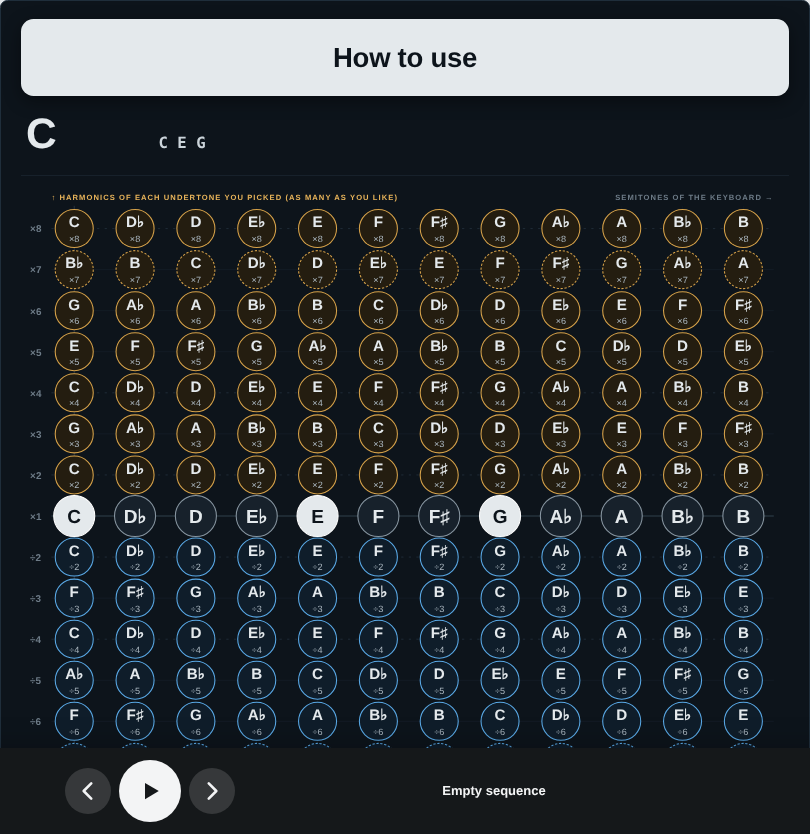
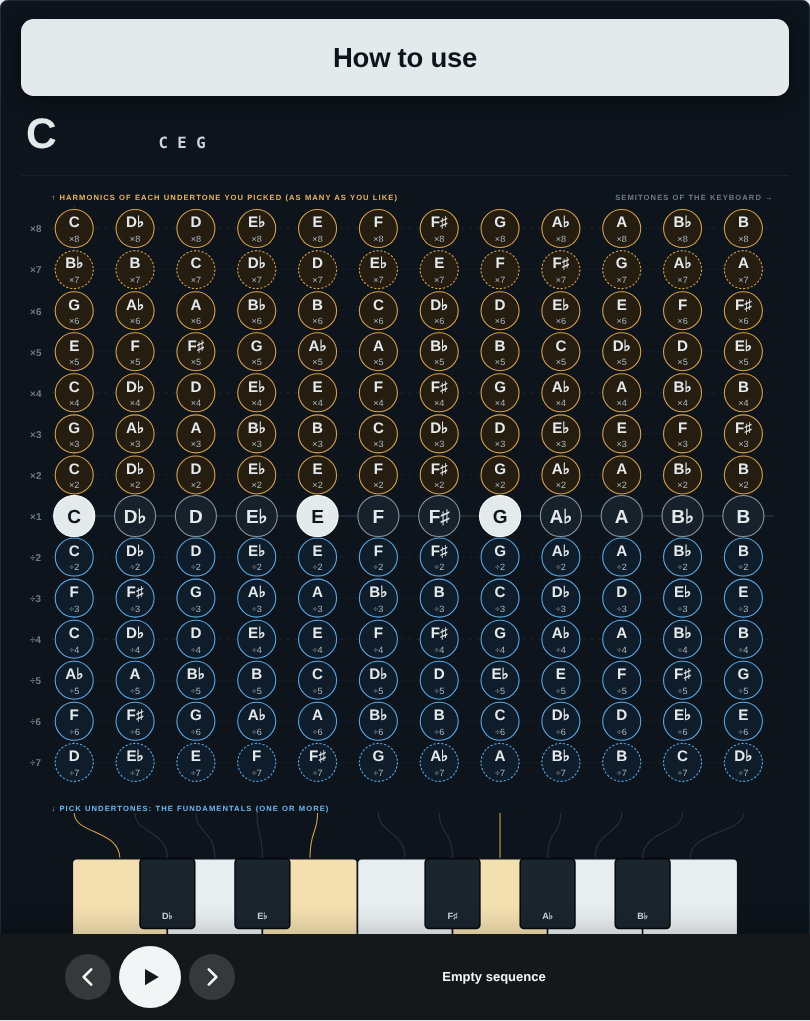
Harmonic Keyboard Tuner: keyboard under the grid, each key plays its column
Claude-Session: https://claude.ai/code/session_01Mq2GKQqtKS2SjuN1U1snRm

Changed region(s): [[0.0, 0.0, 1.0, 1.0]]

diff --git a/harmonic-keyboard-tuner.html b/harmonic-keyboard-tuner.html
@@ -93,6 +93,12 @@ footer a { text-decoration: none; } footer a:hover { color: var(--fg); }
 .cap { font: 700 10px var(--sans); letter-spacing: .14em; text-transform: uppercase; }
 .grow { stroke: #151f29; stroke-width: 1; } .grow.oct { stroke: #25323f; stroke-dasharray: 3 7; } .grow.mid { stroke: #31404d; stroke-width: 1.4; }
 .gcol { stroke: #111a22; stroke-width: 1; } .gcol.focus { stroke: #2f3d49; }
+#pk { display: block; width: 100%; height: auto; touch-action: none; user-select: none; -webkit-user-select: none; margin-top: -4px; }
+#pk .link { fill: none; stroke: #26343f; stroke-width: 1.4; } #pk .link.has { stroke: #d6a24a; } #pk .link.on { stroke: #5fc4ee; stroke-width: 2.2; }
+#pk .wk { fill: #e8edf0; stroke: #0d141b; stroke-width: 2; cursor: pointer; } #pk .bk { fill: #1b252e; stroke: #05090d; stroke-width: 2; cursor: pointer; }
+#pk .wk.has { fill: #f3dfb0; } #pk .bk.has { fill: #6b5a2c; } #pk .on.wk { fill: #7fd0f2; } #pk .on.bk { fill: #2a86b0; }
+#pk text { font: 700 14px Arial, sans-serif; pointer-events: none; } #pk .wl { fill: #3b4650; text-anchor: middle; } #pk .bl { fill: #cdd6dc; text-anchor: middle; font-size: 12px; }
+.pkcap { margin: 6px 0 0; text-align: center; font: 600 12px/1.4 Arial, sans-serif; color: #7d8b97; }
 .rowlbl { fill: #6d7b87; font: 700 13px Arial, sans-serif; }
 .node { cursor: pointer; }
 .node circle { fill: #17212b; stroke: #8795a0; stroke-width: 1.4; }
@@ -213,6 +219,8 @@ body.tutoring #howBtn { display: none; }
         <div id="readout" title="Drag the chord into a bar"><div id="chName" class="empty">Pick a note</div><div id="chSub"></div></div>
         <div id="circRow" hidden style="display:none"><span class="eng">Page</span><div class="dseg" id="circSeg"><button type="button" data-v="0">Fifths</button><button type="button" data-v="1">Relative minors</button></div><span class="eng" id="midiTag"></span></div>
         <svg id="kb" class="grid" viewBox="0 0 1010 830" role="application" aria-label="Harmonic keyboard: a column for each key of the keyboard. Pick an undertone below the middle, then any harmonics of it in the middle row or above."></svg>
+        <svg id="pk" viewBox="0 0 1010 215" role="group" aria-label="One octave of the keyboard. Each key plays the notes picked in the column above it."></svg>
+        <p class="pkcap">Each key plays the notes you picked in its column. A key with nothing picked plays its own note.</p>
       </div>
       <div class="sp" id="seqpanel" style="margin-top:14px">
         <div class="circwrap"><button id="seqCircle" class="circ" type="button" aria-pressed="false" aria-label="Play" title="Play / stop (Space)"><svg class="i-play" viewBox="0 0 24 24" aria-hidden="true"><path d="M8 5.5v13l11-6.5z" fill="currentColor"/></svg><svg class="i-stop" viewBox="0 0 24 24" aria-hidden="true"><rect x="7" y="7" width="10" height="10" rx="1.5" fill="currentColor"/></svg></button></div>
@@ -521,6 +529,7 @@ function syncKB() {
     }
   }
   document.querySelectorAll("#circSeg button").forEach(b => b.setAttribute("aria-pressed", String(+b.dataset.v === VIEW)));
+  if (typeof syncPK === "function") syncPK();
 }
 function render() {
   const keys = handKeys(), nm = $("#chName");
@@ -771,17 +780,41 @@ function restore() {
   } catch (e) { return false; }
 }
 
-// ---------- MIDI keyboard: play the chord shape from the notes you play ----------
+// ---------- the keyboard under the grid: key pc sits under column pc ----------
+const WHITE_PC = [0, 2, 4, 5, 7, 9, 11], BLACK_PC = [[1, 1], [3, 2], [6, 4], [8, 5], [10, 6]], PK0 = 67.5, PKW = 125;
+function buildPK() {
+  let h = "";
+  const cx = pc => { const w = WHITE_PC.indexOf(pc); return w >= 0 ? PK0 + (w + .5) * PKW : PK0 + BLACK_PC.find(b => b[0] === pc)[1] * PKW; };
+  for (let c = 0; c < 12; c++) h += `<path class="link" data-pc="${c}" d="M${GX(c)},0 C${GX(c)},28 ${cx(c)},22 ${cx(c)},60"/>`;
+  WHITE_PC.forEach((pc, i) => { h += `<rect class="wk" data-pc="${pc}" x="${PK0 + i * PKW}" y="60" width="${PKW}" height="150" rx="6"/><text class="wl" x="${PK0 + (i + .5) * PKW}" y="198">${NAMES[pc]}</text>`; });
+  BLACK_PC.forEach(([pc, b]) => { h += `<rect class="bk" data-pc="${pc}" x="${PK0 + b * PKW - 36}" y="60" width="72" height="92" rx="5"/><text class="bl" x="${PK0 + b * PKW}" y="140">${NAMES[pc]}</text>`; });
+  $("#pk").innerHTML = h;
+}
+function syncPK() {
+  const has = new Set(handKeys().map(q => unkey(q).s % 12));
+  document.querySelectorAll("#pk [data-pc]").forEach(e => { const pc = +e.dataset.pc; e.classList.toggle("has", has.has(pc)); e.classList.toggle("on", pkHeld.has(pc)); });
+}
+(function pkEvents() {
+  const down = new Map();
+  $("#pk").addEventListener("pointerdown", e => { const t = e.target.closest("[data-pc]"); if (!t || t.classList.contains("link")) return; e.preventDefault(); const n = 48 + +t.dataset.pc; down.set(e.pointerId, n); midiOn(n, .8); });
+  const up = e => { const n = down.get(e.pointerId); if (n != null) { down.delete(e.pointerId); midiOff(n); } };
+  ["pointerup", "pointercancel", "pointerleave"].forEach(ev => $("#pk").addEventListener(ev, up));
+})();
+
+// ---------- MIDI keyboard: each key plays the notes in its column ----------
 ACT.midi = new Set(); const midiHeld = new Map();
-function midiOn(n, vel) {
-  if (!hand.size) return; ctx.resume(); midiOff(n);
-  const keys = handKeys(), lo = place(keys)[0]; if (!lo) return;
-  const d = (((n - lo.m) % 12) + 12) % 12, ps = place(transposeKeys(keys, d)); if (!ps.length) return;
-  const sh = Math.round((n - ps[0].m) / 12) * 12, t = ctx.currentTime + .005;
-  midiHeld.set(n, ps.map(p => voice(p.m + sh, p.c, clamp(vel, .2, 1), t, 60, ps.length, "midi")));   // the chord shape, with its lowest note on the key you pressed
+const colKeys = pc => { const ks = handKeys().filter(q => unkey(q).s % 12 === pc); return ks.length ? ks : [key(pc, 1)]; };   // the notes picked in this column, or just its own note
+const pkHeld = new Map();
+function midiOn(n, vel) {   // each key of the keyboard plays its own column
+  ctx.resume(); midiOff(n);
+  const pc = ((n % 12) + 12) % 12, ps = place(colKeys(pc)); if (!ps.length) return;
+  const sh = 12 * (Math.floor(n / 12) - 4), t = ctx.currentTime + .005;
+  midiHeld.set(n, ps.map(p => voice(p.m + sh, p.c, clamp(vel, .2, 1), t, 60, ps.length, "midi")));
+  pkHeld.set(pc, (pkHeld.get(pc) || 0) + 1); syncPK();
 }
 function midiOff(n) {
   const hs = midiHeld.get(n); if (!hs) return; midiHeld.delete(n); const t = ctx.currentTime;
+  const pc = ((n % 12) + 12) % 12, c = (pkHeld.get(pc) || 1) - 1; if (c > 0) pkHeld.set(pc, c); else pkHeld.delete(pc); syncPK();
   hs.forEach(h => { try { h.g.gain.cancelScheduledValues(t); h.g.gain.setTargetAtTime(0, t, .08); h.all.forEach(o => { try { o.stop(t + .5); } catch (e) {} }); } catch (e) {} ACT.midi.delete(h); });
 }
 let midiStarted = false;
@@ -826,7 +859,7 @@ async function demoSeq(tok) {
     await clickEl(tok, $("#seqCircle")); await wait(tok, 6500); if (playing) togglePlay();
   } finally { SPD = .6; }
 }
-const T_MIDI = { t: "Plug in a MIDI keyboard to play your chord shape.", sub: "Chrome or Edge. Your lowest note is the key you press.", show: T_ALL, ring: "#readout", piano: true, demo: demoMidi };
+const T_MIDI = { t: "Plug in a MIDI keyboard. Each key plays its own column.", sub: "Chrome or Edge. Each key plays the notes in its column.", show: T_ALL, ring: "#readout", piano: true, demo: demoMidi };
 const T_SEQ = { t: "Or sequence the progression.", sub: "Click a bar to add the chord, then press play.", show: T_ALL, ring: "#seqpanel", demo: demoSeq };
 const TUT_STEPS = CFG.kind === "circle" ? [
   { t: "Click notes to make a chord shape. Go around the circle of fifths.", show: T_FIFTHS, demo: async tok => {
@@ -878,7 +911,7 @@ document.addEventListener("pointerdown", e => { if (tutI >= 0 && e.isTrusted && 
 
 const fitSite = () => { const w = document.documentElement.clientWidth || window.innerWidth; $("#site").style.zoom = Math.min(Math.max(w / 720, 0.3), 1.5); };
 window.addEventListener("resize", fitSite); fitSite();
-const had = restore(); buildKB(); controls(); kbInit(); laneInit();
+const had = restore(); buildKB(); buildPK(); controls(); kbInit(); laneInit();
 if (had) { $("#preSel").value = curPre; $("#presetName").textContent = PRESETS[curPre].n; renderLane(); } else loadPreset(0);
 render();
 </script>

diff --git a/music-theory-tools.html b/music-theory-tools.html
@@ -117,11 +117,11 @@ footer { margin-top: 72px; padding: 24px 36px 48px; border-top: 1px solid var(--
       </span>
     </a>
     <a class="card" href="harmonic-keyboard-tuner.html">
-      <img src="harmonic-keyboard-tuner-preview.png" width="810" height="834" alt="The Harmonic Keyboard Tuner: a column for each of the 12 keys, with harmonics above and undertones below" loading="lazy">
+      <img src="harmonic-keyboard-tuner-preview.png" width="810" height="1021" alt="The Harmonic Keyboard Tuner: a column for each of the 12 keys, with harmonics above and undertones below" loading="lazy">
       <span class="txt">
         <span class="label">Tuning · Harmonic Keyboard</span>
         <h2>Harmonic Keyboard Tuner</h2>
-        <p>The Harmonic Grid for the plain keyboard: each of the 12 keys gets its own undertones and harmonics to play.</p>
+        <p>The Harmonic Grid for the plain keyboard: each of the 12 keys gets its own undertones and harmonics, with a MIDI keyboard underneath to play them.</p>
         <span class="go">Open the Harmonic Keyboard Tuner &rarr;</span>
       </span>
     </a>
